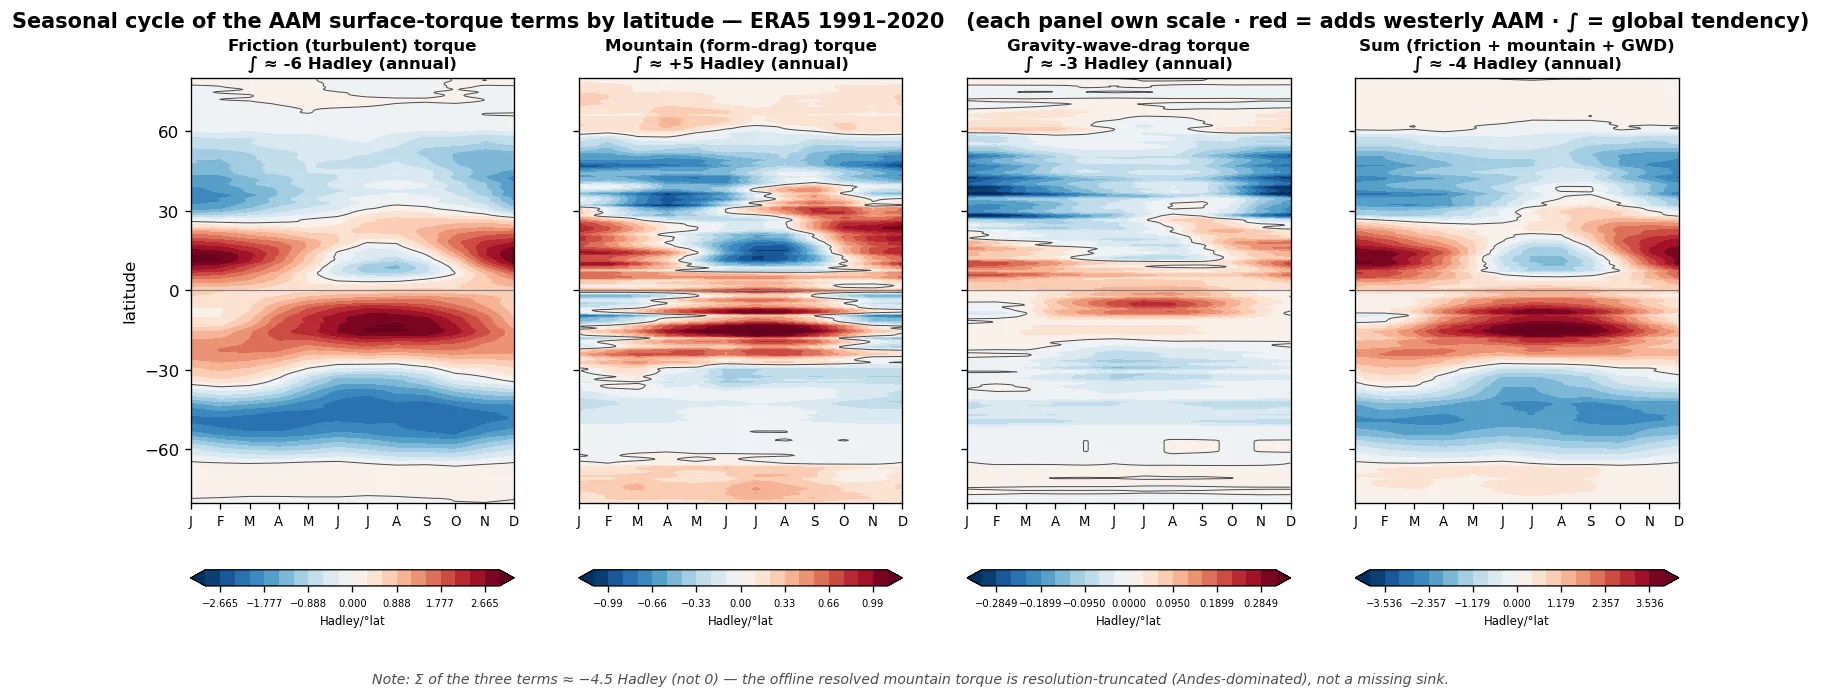
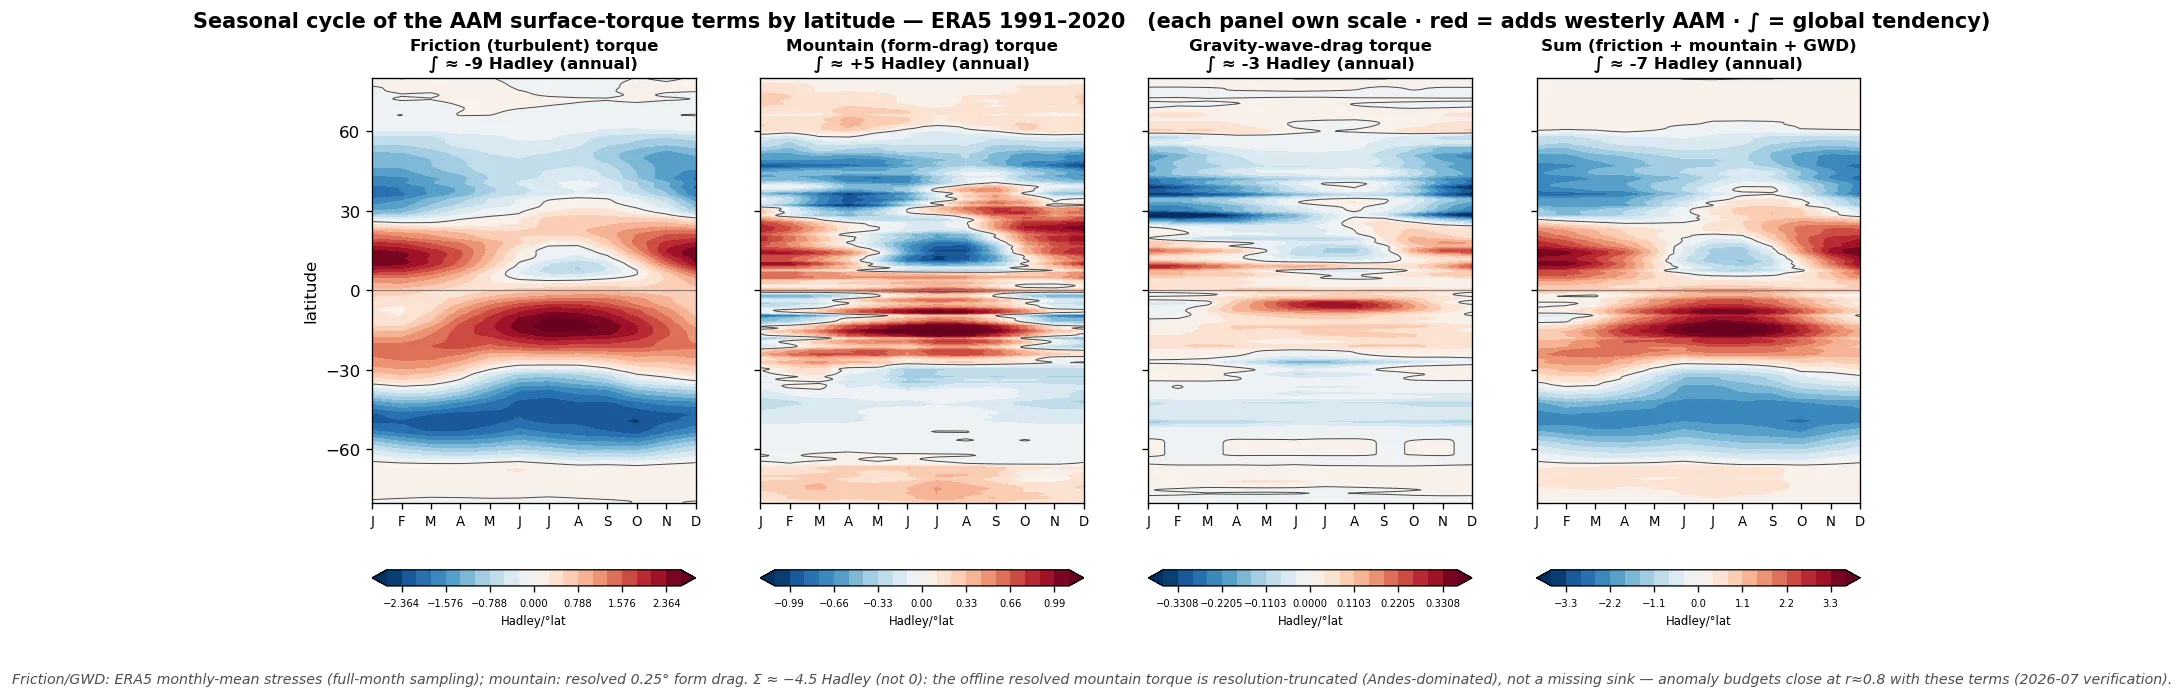
Seasonal torque charts redo: monthly-mean stress source, closure-verified integrals + new GWD depth panel (MERRA-2 braking layer)

diff --git a/enso-atmosphere.html b/enso-atmosphere.html
@@ -451,9 +451,10 @@
               title="AAM surface-torque anomaly animation (friction + mountain) over the AIFS-ENS forecast" loading="lazy"></iframe>
       <div class="img-wrap"><img src="assets/sst/torque_timeseries.webp?v=202607272050" alt="Hemispheric AAM torque budget time series (friction, mountain, sum) for NH and SH" loading="lazy"></div>
       <div class="img-wrap"><img src="assets/sst/torque_ranges.webp?v=202607272050" alt="Mountain-torque anomaly broken down by range (Himalaya, Rockies, Andes, Greenland, Antarctica, Alps)" loading="lazy"></div>
-      <div class="img-wrap"><img src="assets/sst/torque_seasonal.webp?v=e13eceadcae2" alt="Seasonal cycle of the three AAM surface-torque terms (friction, mountain, GWD) by latitude, ERA5 1991-2020" loading="lazy"></div>
-      <div class="img-wrap"><img src="assets/sst/torque_seasonal_ts.webp?v=e13eceadcae2" alt="Seasonal cycle of the integrated AAM torque terms (friction, mountain, GWD, sum) for Global/NH/SH, ERA5 1991-2020" loading="lazy"></div>
-      <div class="chart-card-footer"><span class="chart-sources">ECMWF AIFS-ENS surface pressure (open data, CC BY 4.0) &middot; ERA5 orography + 1991–2020 torque climatology (Copernicus C3S, seasonal-cycle panel) &middot; daily means &middot; updated daily</span></div>
+      <div class="img-wrap"><img src="assets/sst/torque_seasonal.webp?v=20260727r2" alt="Seasonal cycle of the three AAM surface-torque terms (friction, mountain, GWD) by latitude, ERA5 1991-2020" loading="lazy"></div>
+      <div class="img-wrap"><img src="assets/sst/torque_seasonal_ts.webp?v=20260727r2" alt="Seasonal cycle of the integrated AAM torque terms (friction, mountain, GWD, sum) for Global/NH/SH, ERA5 1991-2020" loading="lazy"></div>
+      <div class="img-wrap"><img src="assets/sst/gwd_seasonal_depth.webp?v=20260727r2" alt="Seasonal cycle of gravity-wave drag by pressure level (MERRA-2 1991-2020): the winter 10-2 hPa braking layer over the polar-vortex edge and subtropical jet" loading="lazy"></div>
+      <div class="chart-card-footer"><span class="chart-sources">ECMWF AIFS-ENS surface pressure (open data, CC BY 4.0) &middot; ERA5 monthly-mean surface stresses + orography (Copernicus C3S, seasonal-cycle panels) &middot; MERRA-2 DUDTGWD (NASA GMAO, depth panel) &middot; daily means &middot; updated daily</span></div>
     </div>
 
     <!-- AAM ZONAL ANATOMY (where the AAM lives & where it changes) -->
